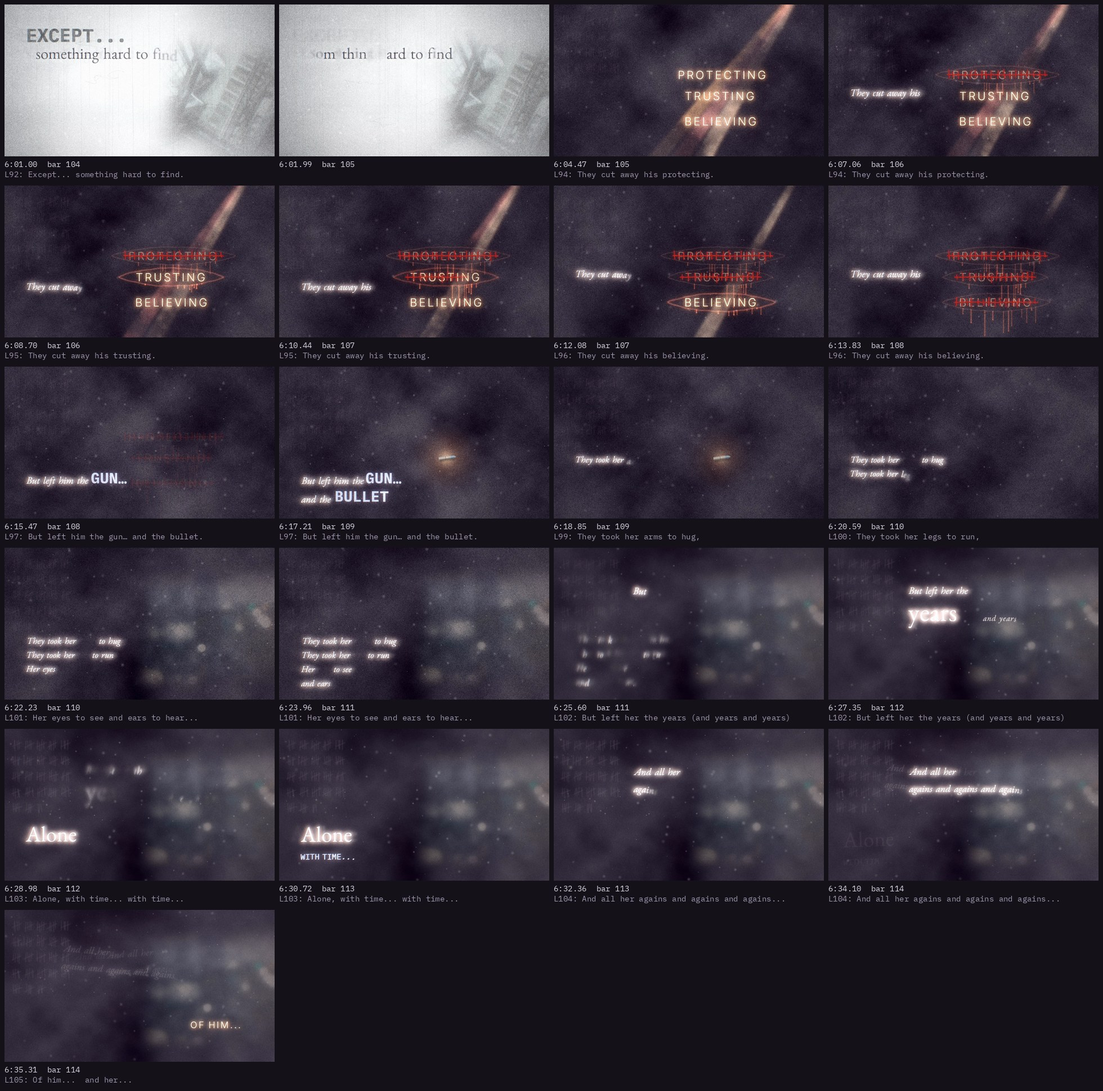
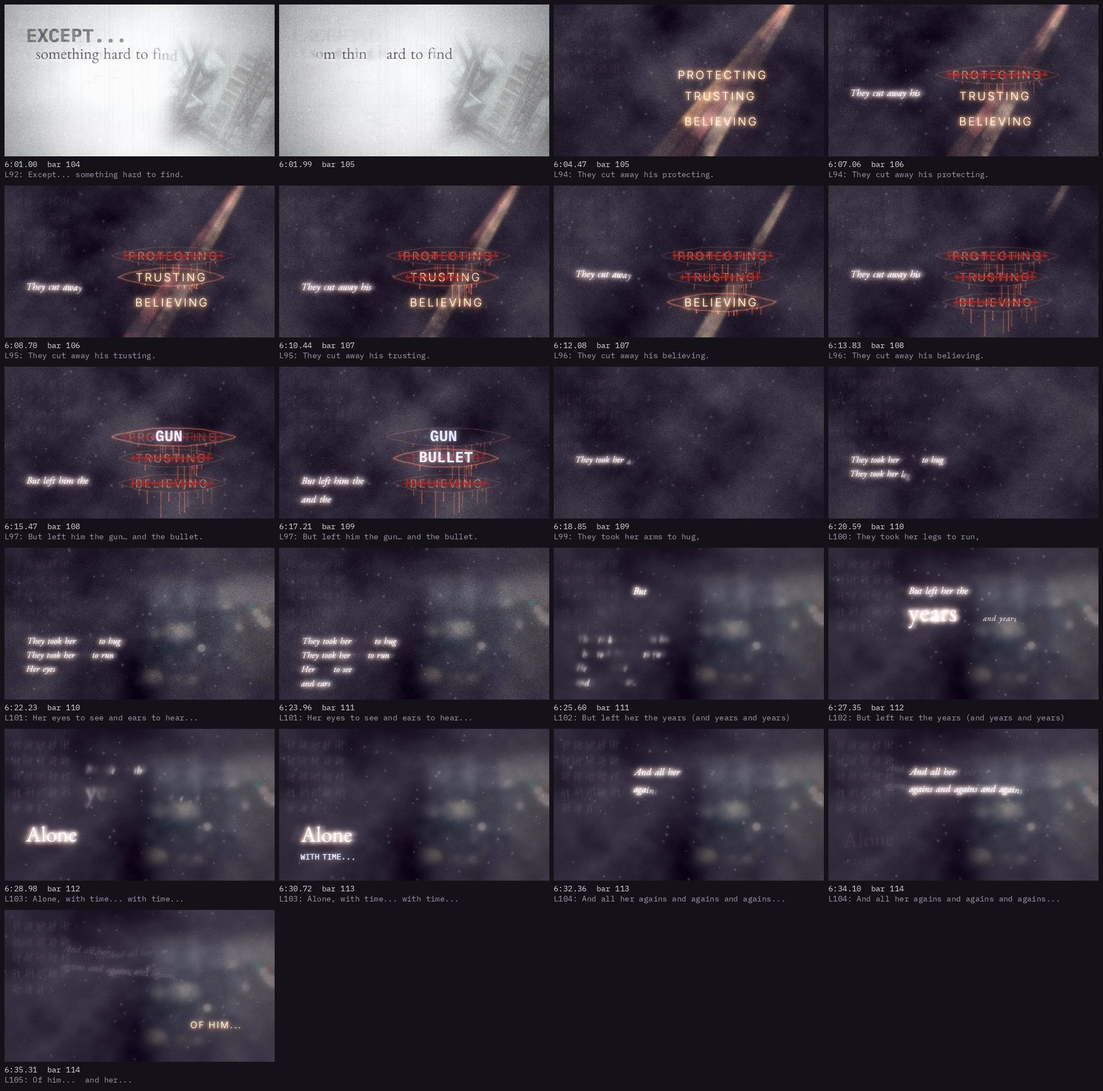
The Cutting: full render with GUN and BULLET in the wounds on the storyboard
Claude-Session: https://claude.ai/code/session_013aPae8dR11r7xw8o95d9Yi

Changed region(s): [[0.0622, 0.3711, 0.2179, 0.4639], [0.2801, 0.3711, 0.4668, 0.4639], [0.6224, 0.4021, 0.6847, 0.433]]

diff --git a/storyboard/index.html b/storyboard/index.html
@@ -144,21 +144,13 @@ ol.steps li::marker { font: 600 0.85rem var(--mono); color: var(--ink-2); }
   <section aria-labelledby="h-built">
     <div class="col"><span class="eyebrow">Built so far</span><h2 id="h-built">The film</h2></div>
     <div class="frames">
-<figure class="render" id="render-the_cutting_gun">
-  <video controls playsinline preload="metadata" poster="renders/the_cutting_gun_poster.jpg" width="1280" height="720">
-    <source src="renders/the_cutting_gun.mp4" type="video/mp4">
-  </video>
-  <figcaption><b>The Cutting (chunk)</b>
-    <span class="tc">6:12.6 → 6:19.6 · bars 107–109</span>
-    <span class="note">Revised: no drawn bullet here. GUN... lands in the coats&#x27; type inside PROTECTING&#x27;s sewn wound, BULLET inside TRUSTING&#x27;s; each wound&#x27;s edge flares red as it lands and the sewn virtue under it fades: what was cut out of him replaced by what they left him. BELIEVING&#x27;s wound stays sewn and empty. The wounds fade as &#x27;They took her arms&#x27; begins. (The full Cutting below still has the earlier metal bullet; it will be re-rendered once this is settled.) <a href="renders/the_cutting_gun_contact.jpg">Contact sheet</a></span></figcaption>
-</figure>
 <figure class="render" id="render-the_cutting">
   <video controls playsinline preload="metadata" poster="renders/the_cutting_poster.jpg" width="1280" height="720">
     <source src="renders/the_cutting.mp4" type="video/mp4">
   </video>
   <figcaption><b>The Cutting</b>
     <span class="tc">6:04.6 → 6:36.6 · bars 106–115</span>
-    <span class="note">What they did to each of them, in her words. Out of the coats&#x27; white his three shafts pour back, with PROTECTING, TRUSTING and BELIEVING still lit where he set them in Spoken I (a memory of his offer). Each &#x27;cut&#x27; is surgery: a scalpel traces an excision round his word (the frame jolts, as on the stabs), and his light wells out of the incision, redder, and runs down in drips while the word trembles. When she sings the word the wound is sewn shut over it in thick red thread: a strike through it, short uneven stitches across it, a strikeout and sutures at once. His light chokes under them and the shaft drains; the three sewn-shut virtues stay until &#x27;But left him the gun&#x27;. GUN and BULLET in the coats&#x27; type; the bullet doesn&#x27;t fall this time: it surfaces where his light used to shine, catches the last of it, and is gone. What they take from her is cut out of her lines, leaving the gaps: &#x27;They took her ___ to hug / ___ to run / Her ___ to see and ___ to hear&#x27;. Taking her eyes takes the focus; taking her ears stills the world (the drift, the fog, the grain). What they leave her is the years: her tally, sharp through the blur, brightening on each &#x27;years&#x27;. &#x27;Alone&#x27; in her serif with &#x27;with time... with time...&#x27; overstruck in the coats&#x27; type: their phrase is now her condition. Her agains begin to double (the deaf ghosts of Refrain II). Then OF HIM... in his light on his side, and her... on hers. The clip starts 3.6 s early, in White Coats III&#x27;s white, to show the hand-off. <a href="renders/the_cutting_contact.jpg">Contact sheet</a></span></figcaption>
+    <span class="note">What they did to each of them, in her words. Out of the coats&#x27; white his three shafts pour back, with PROTECTING, TRUSTING and BELIEVING still lit where he set them in Spoken I (a memory of his offer). Each &#x27;cut&#x27; is surgery: a scalpel traces an excision round his word (the frame jolts, as on the stabs), and his light wells out of the incision, redder, and runs down in drips while the word trembles. When she sings the word the wound is sewn shut over it in thick red thread: a strike through it, short uneven stitches across it, a strikeout and sutures at once. His light chokes under them and the shaft drains; the sewn-shut wounds stay until &#x27;They took her arms&#x27;. GUN and BULLET in the coats&#x27; type land in his wounds: GUN where PROTECTING was sewn shut, BULLET where TRUSTING was, each wound&#x27;s edge flaring red as it lands while the sewn virtue under it fades; BELIEVING&#x27;s stays empty. (No drawn bullet here; the falling bullet belongs to A gun and a bullet.) What they take from her is cut out of her lines, leaving the gaps: &#x27;They took her ___ to hug / ___ to run / Her ___ to see and ___ to hear&#x27;. Taking her eyes takes the focus; taking her ears stills the world (the drift, the fog, the grain). What they leave her is the years: her tally, sharp through the blur, brightening on each &#x27;years&#x27;. &#x27;Alone&#x27; in her serif with &#x27;with time... with time...&#x27; overstruck in the coats&#x27; type: their phrase is now her condition. Her agains begin to double (the deaf ghosts of Refrain II). Then OF HIM... in his light on his side, and her... on hers. The clip starts 3.6 s early, in White Coats III&#x27;s white, to show the hand-off. <a href="renders/the_cutting_contact.jpg">Contact sheet</a></span></figcaption>
 </figure>
 <figure class="render" id="render-white_coats_iii">
   <video controls playsinline preload="metadata" poster="renders/white_coats_iii_poster.jpg" width="1280" height="720">
@@ -636,9 +628,9 @@ ol.steps li::marker { font: 600 0.85rem var(--mono); color: var(--ink-2); }
       <h3>The Cutting</h3><a class="fref" href="#frame-C">Style frame C</a></header>
     <p class="lyr">They cut away his protecting.</p>
     <dl>
-      <dt>Picture</dt><dd>Out of the coats&#x27; white, his three shafts return with PROTECTING, TRUSTING, BELIEVING still lit inside them where he set them in Spoken I. Each “cut” is surgery: a scalpel traces an excision round his word, his light wells out of the incision, redder, and drips; when she sings the word the wound is sewn shut over it in thick red thread (a strikeout and sutures at once) and the shaft drains. GUN and BULLET in the coats&#x27; type; the bullet surfaces where his light used to shine, glows for a moment and is gone. What they take from her is cut out of her lines, leaving the gaps; taking her eyes takes the focus, taking her ears stills the world. The years stay: her tally, the one sharp thing, brighter on each “years”.</dd>
+      <dt>Picture</dt><dd>Out of the coats&#x27; white, his three shafts return with PROTECTING, TRUSTING, BELIEVING still lit inside them where he set them in Spoken I. Each “cut” is surgery: a scalpel traces an excision round his word, his light wells out of the incision, redder, and drips; when she sings the word the wound is sewn shut over it in thick red thread (a strikeout and sutures at once) and the shaft drains. GUN and BULLET in the coats&#x27; type land in his wounds where PROTECTING and TRUSTING were. What they take from her is cut out of her lines, leaving the gaps; taking her eyes takes the focus, taking her ears stills the world. The years stay: her tally, the one sharp thing, brighter on each “years”.</dd>
       <dt>Type</dt><dd>Her voice as light; his virtues in his type; GUN / BULLET and “with time... with time...” in the coats&#x27; type (overstruck, their phrase now her condition); OF HIM in his light on the right, and her... on the left.</dd>
-      <dt>Sync</dt><dd>Incisions on the “cut” vowels; each virtue sewn shut as it is sung; the bullet on “bullet”; the taken words vanish just after they are sung; her agains begin to double into Refrain II.</dd>
+      <dt>Sync</dt><dd>Incisions on the “cut” vowels; each virtue sewn shut as it is sung; GUN and BULLET land in the wounds on their words; the taken words vanish just after they are sung; her agains begin to double into Refrain II.</dd>
     </dl>
   </div>
 </article>
